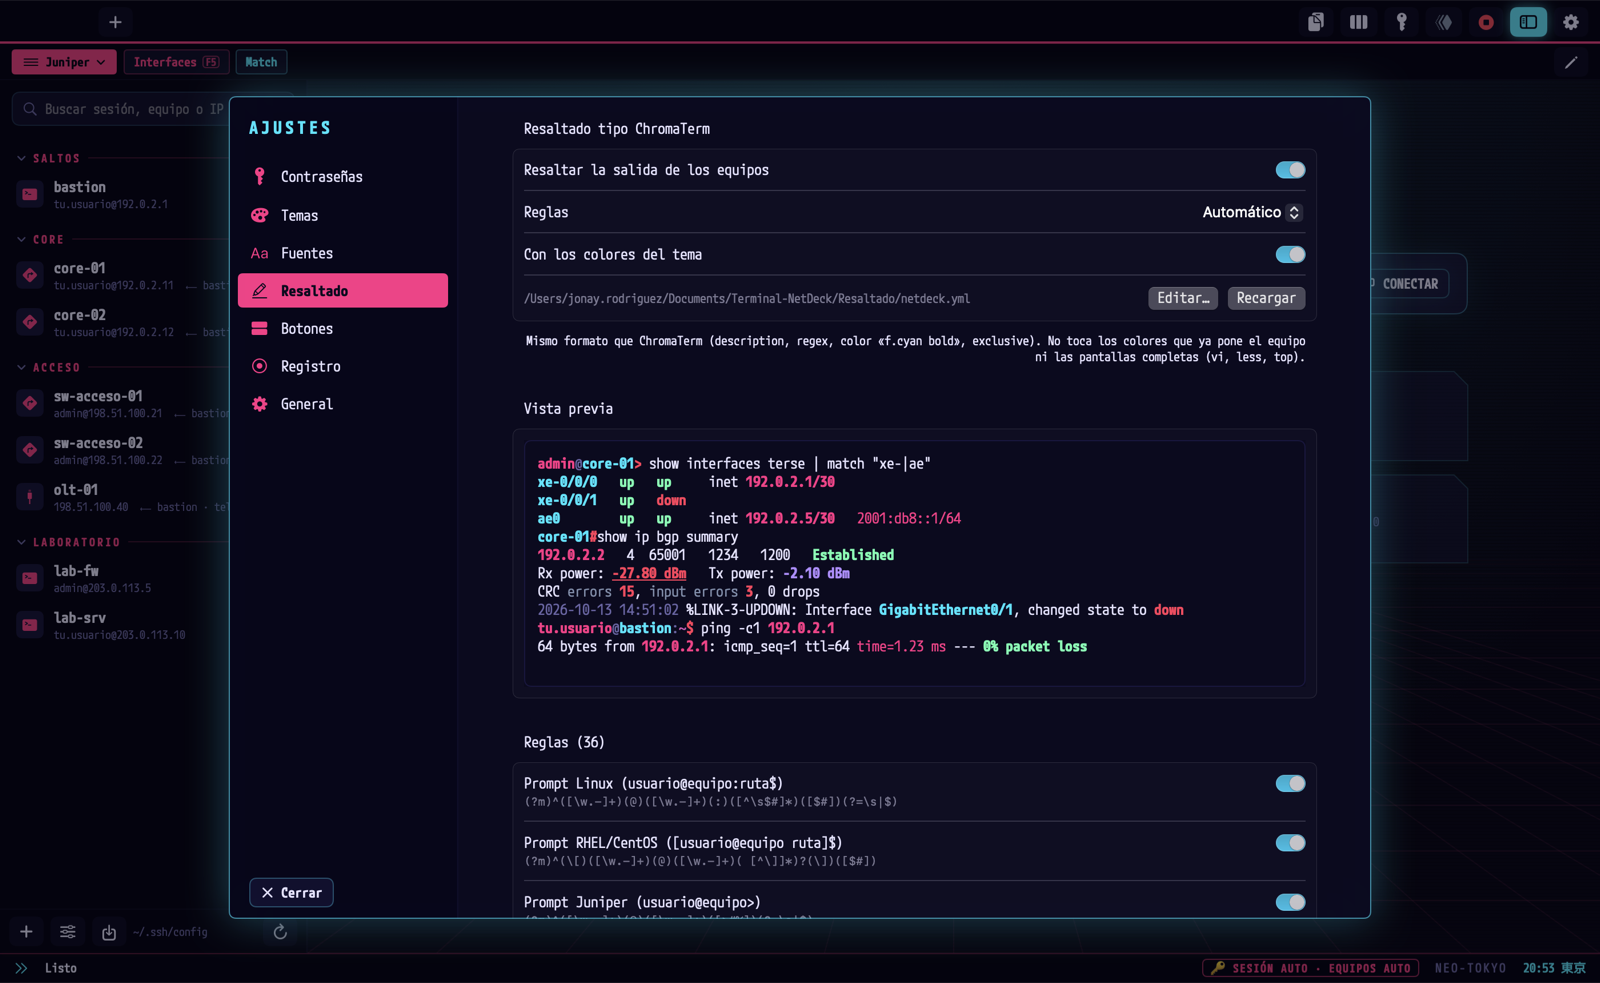
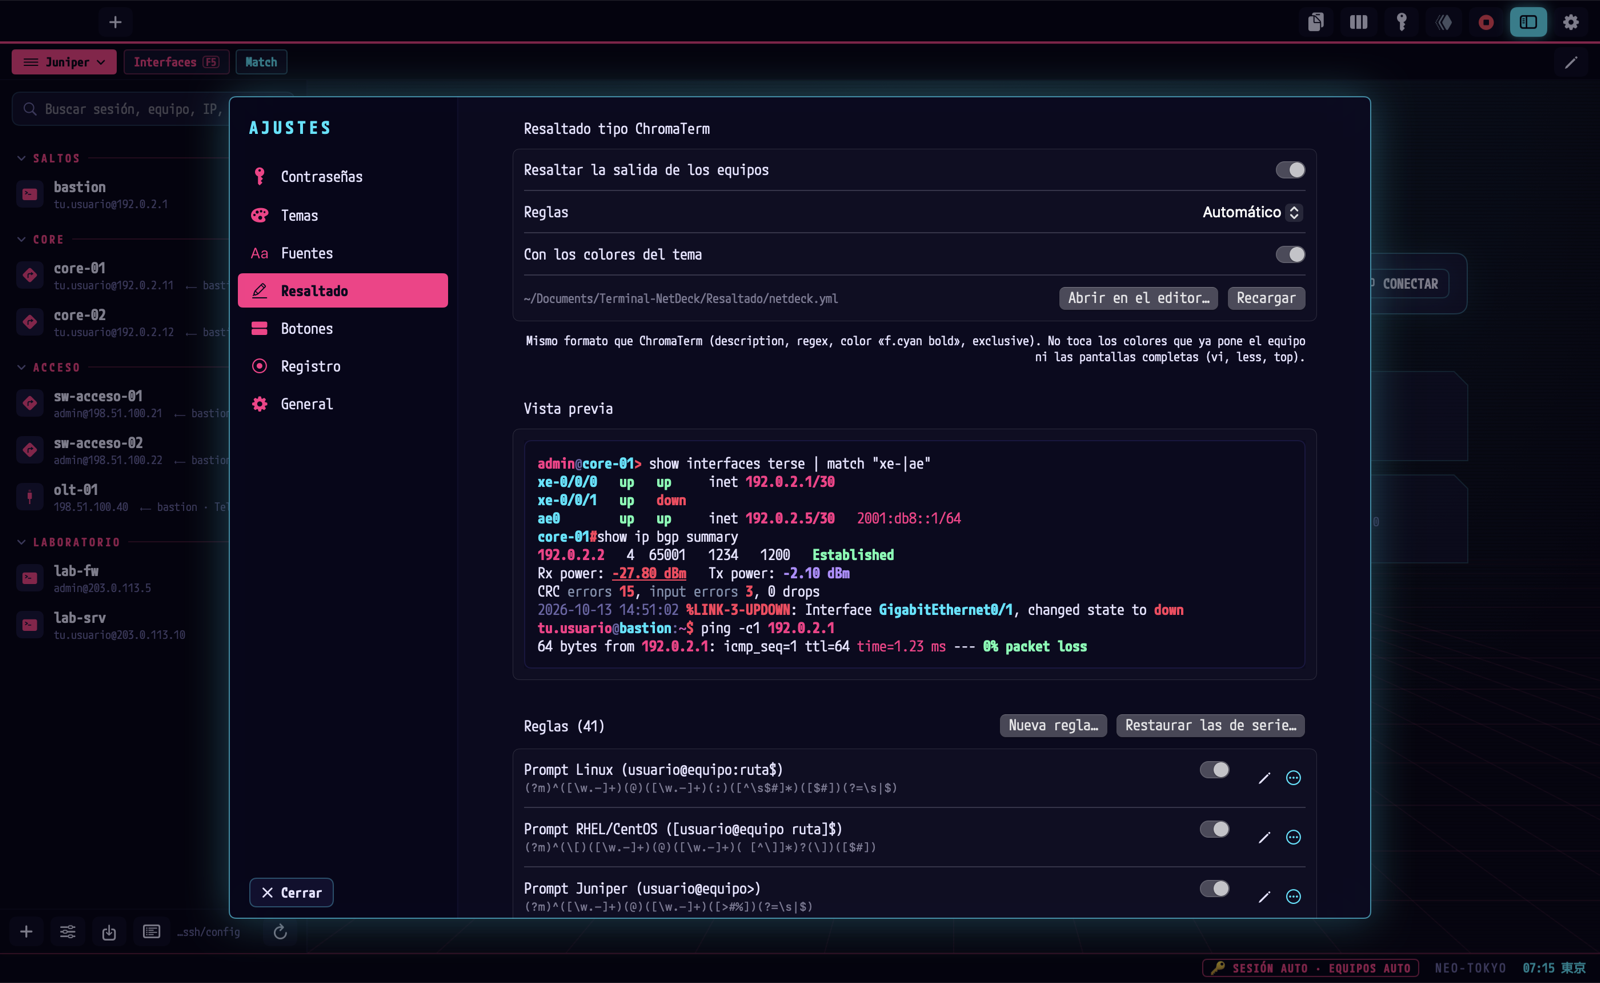
0.6.0: rutas sin carpeta personal, permisos de los datos y documentación
- AppPaths.tilde: toda ruta en pantalla con la carpeta personal como «~» (la real y la de NETDECK_HOME), así tampoco
  sale tu usuario en las capturas.
- install.sh crea la carpeta de la app y la de temas con 0700; la copia editable de las reglas de resaltado, 0600.
- Capturas del README regeneradas; README y CLAUDE.md con privacidad, auditoría de seguridad, registro de errores,
  reglas de resaltado editables y menú «+».

diff --git a/Sources/TerminalNetDeck/SettingsView.swift b/Sources/TerminalNetDeck/SettingsView.swift
@@ -450,7 +450,7 @@ struct HighlightSettings: View {
                 }
                 Toggle(L("Con los colores del tema"), isOn: $s.highlightThemeColors)
                 HStack {
-                    Text(model.highlightFile?.path.replacingOccurrences(of: AppPaths.home.path, with: "~") ?? "—")
+                    Text(model.highlightFile.map { AppPaths.tilde($0.path) } ?? "—")
                         .font(t.ui(11)).foregroundStyle(.secondary).lineLimit(1).truncationMode(.head)
                     Spacer()
                     Button(L("Abrir en el editor…")) {
@@ -492,7 +492,7 @@ struct LogSettings: View {
             Section {
                 Toggle(L("Grabar todas las sesiones a un archivo"), isOn: $s.logEnabled)
                 HStack {
-                    Text(s.logPath.replacingOccurrences(of: AppPaths.home.path, with: "~"))
+                    Text(AppPaths.tilde(s.logPath))
                         .font(.callout.monospaced()).lineLimit(1).truncationMode(.head)
                     Spacer()
                     Button(L("Elegir carpeta…")) {
@@ -530,7 +530,7 @@ struct LogSettings: View {
             Section {
                 Toggle(L("Registro de depuración"), isOn: $s.debugLog)
                 HStack {
-                    Text(DebugLog.file.path.replacingOccurrences(of: AppPaths.home.path, with: "~")).font(.caption.monospaced())
+                    Text(AppPaths.tilde(DebugLog.file.path)).font(.caption.monospaced())
                     Spacer()
                     Button(L("Abrir")) { DebugLog.flush(); NSWorkspace.shared.open(DebugLog.file) }
                 }

diff --git a/Sources/TerminalNetDeck/SetupWizard.swift b/Sources/TerminalNetDeck/SetupWizard.swift
@@ -101,7 +101,7 @@ final class SetupWizard {
                 try fm.createDirectory(at: destination, withIntermediateDirectories: true)
                 if fm.fileExists(atPath: installedApp.path) { try fm.removeItem(at: installedApp) }   // (versión anterior)
                 try fm.copyItem(at: bundleURL, to: installedApp)
-                log.append(L("✓ App instalada en \(installedApp.path.replacingOccurrences(of: AppPaths.home.path, with: "~"))"))
+                log.append(L("✓ App instalada en \(AppPaths.tilde(installedApp.path))"))
             } catch {
                 log.append(L("✗ No se ha podido copiar la app: \(error.localizedDescription)"))
                 running = false
@@ -395,7 +395,7 @@ struct SetupContent: View {
     private var install: some View {
         VStack(alignment: .leading, spacing: 10) {
             if wizard.log.isEmpty {
-                summary(L("Ubicación"), wizard.needsCopy ? wizard.installedApp.path.replacingOccurrences(of: AppPaths.home.path, with: "~")
+                summary(L("Ubicación"), wizard.needsCopy ? AppPaths.tilde(wizard.installedApp.path)
                                                       : L("sin copiar"))
                 summary(L("Tema"), wizard.previewTheme(model).name)
                 summary(L("Fuentes"), wizard.fontsToInstall.isEmpty ? L("ninguna nueva") : wizard.fontsToInstall.sorted().joined(separator: ", "))

diff --git a/Sources/TerminalNetDeck/SessionEditor.swift b/Sources/TerminalNetDeck/SessionEditor.swift
@@ -388,7 +388,7 @@ struct SessionEditor: View {
                 Image(systemName: "exclamationmark.triangle.fill").foregroundStyle(SwiftUI.Color(t.bad))
                 Text(p).font(t.ui(11)).foregroundStyle(SwiftUI.Color(t.bad)).lineLimit(2)
             } else {
-                Text(message.isEmpty ? SessionFile.defaultURL.path.replacingOccurrences(of: AppPaths.home.path, with: "~") : message)
+                Text(message.isEmpty ? AppPaths.tilde(SessionFile.defaultURL.path) : message)
                     .font(t.ui(11)).foregroundStyle(SwiftUI.Color(message.hasPrefix("✗") ? t.bad : t.dim)).lineLimit(2)
             }
             Spacer()
@@ -494,7 +494,7 @@ struct SessionEditor: View {
         p.showsHiddenFiles = true
         p.directoryURL = AppPaths.home.appendingPathComponent(".ssh")
         guard p.runModal() == .OK, let u = p.url else { return }
-        file.sessions[i].keyFile = u.path.replacingOccurrences(of: AppPaths.home.path, with: "~")
+        file.sessions[i].keyFile = AppPaths.tilde(u.path)
     }
 
     private func savePassword(user: String, host: String) {

diff --git a/Sources/TerminalNetDeck/AppModel.swift b/Sources/TerminalNetDeck/AppModel.swift
@@ -230,6 +230,7 @@ final class AppModel {
         let dest = AppPaths.ensure(AppPaths.support).appendingPathComponent("resaltado.yml")
         if !FileManager.default.fileExists(atPath: dest.path), let src = highlightFile {
             try? FileManager.default.copyItem(at: src, to: dest)
+            try? FileManager.default.setAttributes([.posixPermissions: 0o600], ofItemAtPath: dest.path)   // (sólo tú)
         }
         settings.highlightSource = .custom
         reloadHighlight()
@@ -734,7 +735,7 @@ final class AppModel {
         do {
             try f.save()
             reloadButtons()
-            status = L("Botones guardados (\(f.buttons.count)) en \(ButtonFile.defaultURL.path.replacingOccurrences(of: AppPaths.home.path, with: "~"))")
+            status = L("Botones guardados (\(f.buttons.count)) en \(AppPaths.tilde(ButtonFile.defaultURL.path))")
             return nil
         } catch {
             ErrorLog.error("botones", "no se han podido guardar: \(error.localizedDescription)")

diff --git a/Sources/TerminalNetDeck/Sidebar.swift b/Sources/TerminalNetDeck/Sidebar.swift
@@ -51,7 +51,7 @@ struct Sidebar: View {
                     .help(L("Importar de SecureCRT, MobaXterm, PuTTY, CSV…"))
                 IconButton(icon: "list.bullet.rectangle") { model.sheet = .list }
                     .help(L("Listas de equipos: la misma orden en muchos equipos por un salto (⇧⌘L)"))
-                Text(model.sessions.source?.path.replacingOccurrences(of: AppPaths.home.path, with: "~") ?? L("sesiones de ejemplo"))
+                Text(model.sessions.source.map { AppPaths.tilde($0.path) } ?? L("sesiones de ejemplo"))
                     .lineLimit(1).truncationMode(.head)
                     .foregroundStyle(SwiftUI.Color(t.dim))
                 Spacer()

diff --git a/Sources/TerminalNetDeck/LogSearch.swift b/Sources/TerminalNetDeck/LogSearch.swift
@@ -30,7 +30,7 @@ struct LogSearchSheet: View {
                 Button(L("Buscar"), action: search).keyboardShortcut(.defaultAction)
                 if searching { ProgressView().controlSize(.small) }
             }
-            Text(L("\(hits.count)\(hits.count >= 500 ? "+" : "") líneas en \(model.settings.logPath.replacingOccurrences(of: AppPaths.home.path, with: "~"))"))
+            Text(L("\(hits.count)\(hits.count >= 500 ? "+" : "") líneas en \(AppPaths.tilde(model.settings.logPath))"))
                 .font(.caption).foregroundStyle(.secondary)
             HSplitView {
                 List(hits, selection: $selected) { h in

diff --git a/Sources/NetDeckCore/Support/AppPaths.swift b/Sources/NetDeckCore/Support/AppPaths.swift
@@ -9,6 +9,13 @@ public enum AppPaths {
     }
 
     /// ~/Library/Application Support/Terminal NetDeck
+    /// Una ruta para enseñarla: la carpeta personal (la real y la de NETDECK_HOME) como «~».
+    public static func tilde(_ path: String) -> String {
+        var p = path
+        for h in [home.path, NSHomeDirectory()] where !h.isEmpty && p.hasPrefix(h) { p = "~" + p.dropFirst(h.count) }
+        return p
+    }
+
     public static var support: URL {
         home.appendingPathComponent("Library/Application Support/Terminal NetDeck", isDirectory: true)
     }

diff --git a/Sources/TerminalNetDeck/Buttons.swift b/Sources/TerminalNetDeck/Buttons.swift
@@ -216,7 +216,7 @@ struct ButtonEditor: View {
                 .frame(width: 240)
                 Toggle(L("Por grupos (☰)"), isOn: $s.buttonBarGrouped)
                 Spacer()
-                Text(ButtonFile.defaultURL.path.replacingOccurrences(of: AppPaths.home.path, with: "~"))
+                Text(AppPaths.tilde(ButtonFile.defaultURL.path))
                     .font(.caption.monospaced()).foregroundStyle(.secondary).lineLimit(1).truncationMode(.head)
             }
             .padding(14)

diff --git a/Sources/TerminalNetDeck/ContentView.swift b/Sources/TerminalNetDeck/ContentView.swift
@@ -377,7 +377,7 @@ struct RecBadge: View {
                 }
             }
             .menuStyle(.button).buttonStyle(.plain).menuIndicator(.hidden).fixedSize()
-            .help(L("Grabando en \(f.path.replacingOccurrences(of: AppPaths.home.path, with: "~"))"))
+            .help(L("Grabando en \(AppPaths.tilde(f.path))"))
         }
     }
 }

diff --git a/CLAUDE.md b/CLAUDE.md
@@ -7,7 +7,13 @@ Repositorio público: https://github.com/Iljonis/Terminal-NetDeck
 
 - `swift build` · `swift run TerminalNetDeck` (desarrollo; `-idioma en` en inglés; cualquier ajuste se puede forzar
   igual: `-sshConfigPath /ruta`, `-themeID neo-tokyo`…)
-- `./test.sh` — tests del núcleo (Swift Testing). Siempre en verde antes de un commit. También en GitHub Actions.
+- `./test.sh` — primero `tools/privacidad.sh` (nada personal en lo que se publica) y luego los tests del núcleo (Swift
+  Testing). Siempre en verde antes de un commit. También en GitHub Actions.
+- `tools/privacidad.sh [--binario]` — IPs privadas, rutas `/Users/…`, correos, claves, tokens y contraseñas en el código,
+  temas, reglas y plantillas; con `--binario` también la app de `build/` y el `.dmg`. Tus direcciones (las de tu
+  ssh_config y las de `tools/privacidad.local`, que no se sube) se comprueban sin publicarlas.
+- `tools/seguridad_cron.sh` — auditoría periódica: dependencias contra OSV.dev (CVE/GHSA), privacidad, tests y
+  endurecimiento; en GitHub, `.github/workflows/seguridad.yml` cada lunes. Informe en `~/Library/Logs/Terminal NetDeck/seguridad.log`.
 - `./install.sh` (instalar) · `./install.sh --dmg` (empaquetar) · `./actualizar.sh` (reinstala y reabre con las pestañas)
   · `NETDECK_REPO=Iljonis/Terminal-NetDeck` al compilar para las actualizaciones automáticas.
 - Capturas: `tools/capturas.sh` (README) o a mano con `NETDECK_HOME=<carpeta temporal con tools/demo>`
@@ -47,6 +53,9 @@ Repositorio público: https://github.com/Iljonis/Terminal-NetDeck
 - **Pestañas al arrancar**: no se guardan ni reabren las de loopback (127.x/localhost) ni las de las capturas.
 - **Actualizaciones** (`UpdateChecker`/`UpdateCheck`): una vez al día, en silencio, sólo enlaces https de github.com,
   nunca se descarga ni instala nada sola. Si el repositorio es privado no encuentra versiones.
+- **Errores**: `ErrorLog` (`~/Library/Application Support/Terminal NetDeck/logs/error.log`, nivel y detalle, sin
+  secretos); los mensajes al usuario van por `model.status` y sólo los que empiezan por ✗ 🔑 ⎋ ⬆ salen como aviso.
+- **Rutas en pantalla**: siempre con `AppPaths.tilde(…)` (la carpeta personal como «~»; así tampoco salen en capturas).
 - Ejemplos y tests sin datos reales: IPs `192.0.2.x` / `198.51.100.x` / `203.0.113.x` (RFC 5737), `tu.usuario`,
   `core-01`, `bastion`.
 
@@ -83,7 +92,8 @@ Cómo se trabaja con ellos:
 
 ## Publicar una versión
 
-1. `VERSION` en `install.sh`; `./test.sh`; pasada de `ecc:security-reviewer` / `ecc:opensource-sanitizer`.
+1. `VERSION` en `install.sh`; `./test.sh`; `tools/seguridad_cron.sh`; pasada de `ecc:security-reviewer` /
+   `ecc:opensource-sanitizer`.
 2. `git tag -a vX.Y.Z -m "Terminal NetDeck X.Y.Z"` y push del tag.
-3. `NETDECK_REPO=Iljonis/Terminal-NetDeck ./install.sh --dmg` y subir `dist/Terminal-NetDeck.dmg` a una Release de GitHub
+3. `NETDECK_REPO=Iljonis/Terminal-NetDeck ./install.sh --dmg`, `tools/privacidad.sh --binario`, y subir `dist/Terminal-NetDeck.dmg` a una Release de GitHub
    con ese tag (la app la ofrece sola a quien tenga una versión anterior).

diff --git a/README.md b/README.md
@@ -35,7 +35,10 @@ Swift 6 · SwiftUI · [SwiftTerm](https://github.com/migueldeicaza/SwiftTerm). E
   activar en Ajustes → General → Conexiones.
 - **Importar** sesiones de SecureCRT, MobaXterm, PuTTY, electerm, CSV u otro `ssh_config` (nunca contraseñas).
   **Exportar** todas o unos grupos a JSON (todos los campos) o CSV, sin contraseñas; el JSON se vuelve a importar.
-- **Resaltado** de la salida con reglas tipo ChromaTerm, con los colores del tema.
+- **Resaltado** de la salida con reglas tipo ChromaTerm (41 de serie, activas desde el primer arranque: IPs, MAC,
+  interfaces, estados, BGP, dBm, errores, VLAN, syslog…), con los colores del tema. Se crean, editan, duplican,
+  ordenan y borran en Ajustes → Resaltado, con la expresión comprobada al escribir y vista previa.
+- **Menú «+»** con conexión rápida, terminal local, sesión nueva (SSH, SFTP, serie) y tus favoritas.
 - **51 temas** en 8 grupos (galería en Ajustes → Temas), con su paleta ANSI y su fuente; pueden **seguir al Mac**
   (uno claro y otro oscuro) y se importan los tuyos (`.tema`). Todos pasan una prueba de contraste WCAG.
 - **Actualizaciones** comprobadas en silencio una vez al día (nunca se instala nada sola) e **idioma** de la interfaz
@@ -153,6 +156,11 @@ repositorio que se indica al compilar: `NETDECK_REPO=usuario/repo ./install.sh`.
   cada guardado y `.original` la primera vez. Carpetas y archivos de la app sólo para ti (0700/0600).
 - Actualizaciones: sólo enlaces https de github.com, y nada se descarga ni instala sin que lo pidas.
 - Firma ad hoc con hardened runtime.
+- `./test.sh` comprueba antes de los tests que nada personal llega al repositorio, a la app ni al `.dmg`
+  (`tools/privacidad.sh`), y `tools/seguridad_cron.sh` (cada semana en GitHub Actions) revisa las dependencias contra
+  la base de vulnerabilidades OSV.dev (CVE), la privacidad, los tests y el endurecimiento de la app.
+- Los errores se guardan en `~/Library/Application Support/Terminal NetDeck/logs/error.log` (Ayuda → Abrir el
+  registro de errores), nunca con contraseñas.
 
 ## Atajos
 
